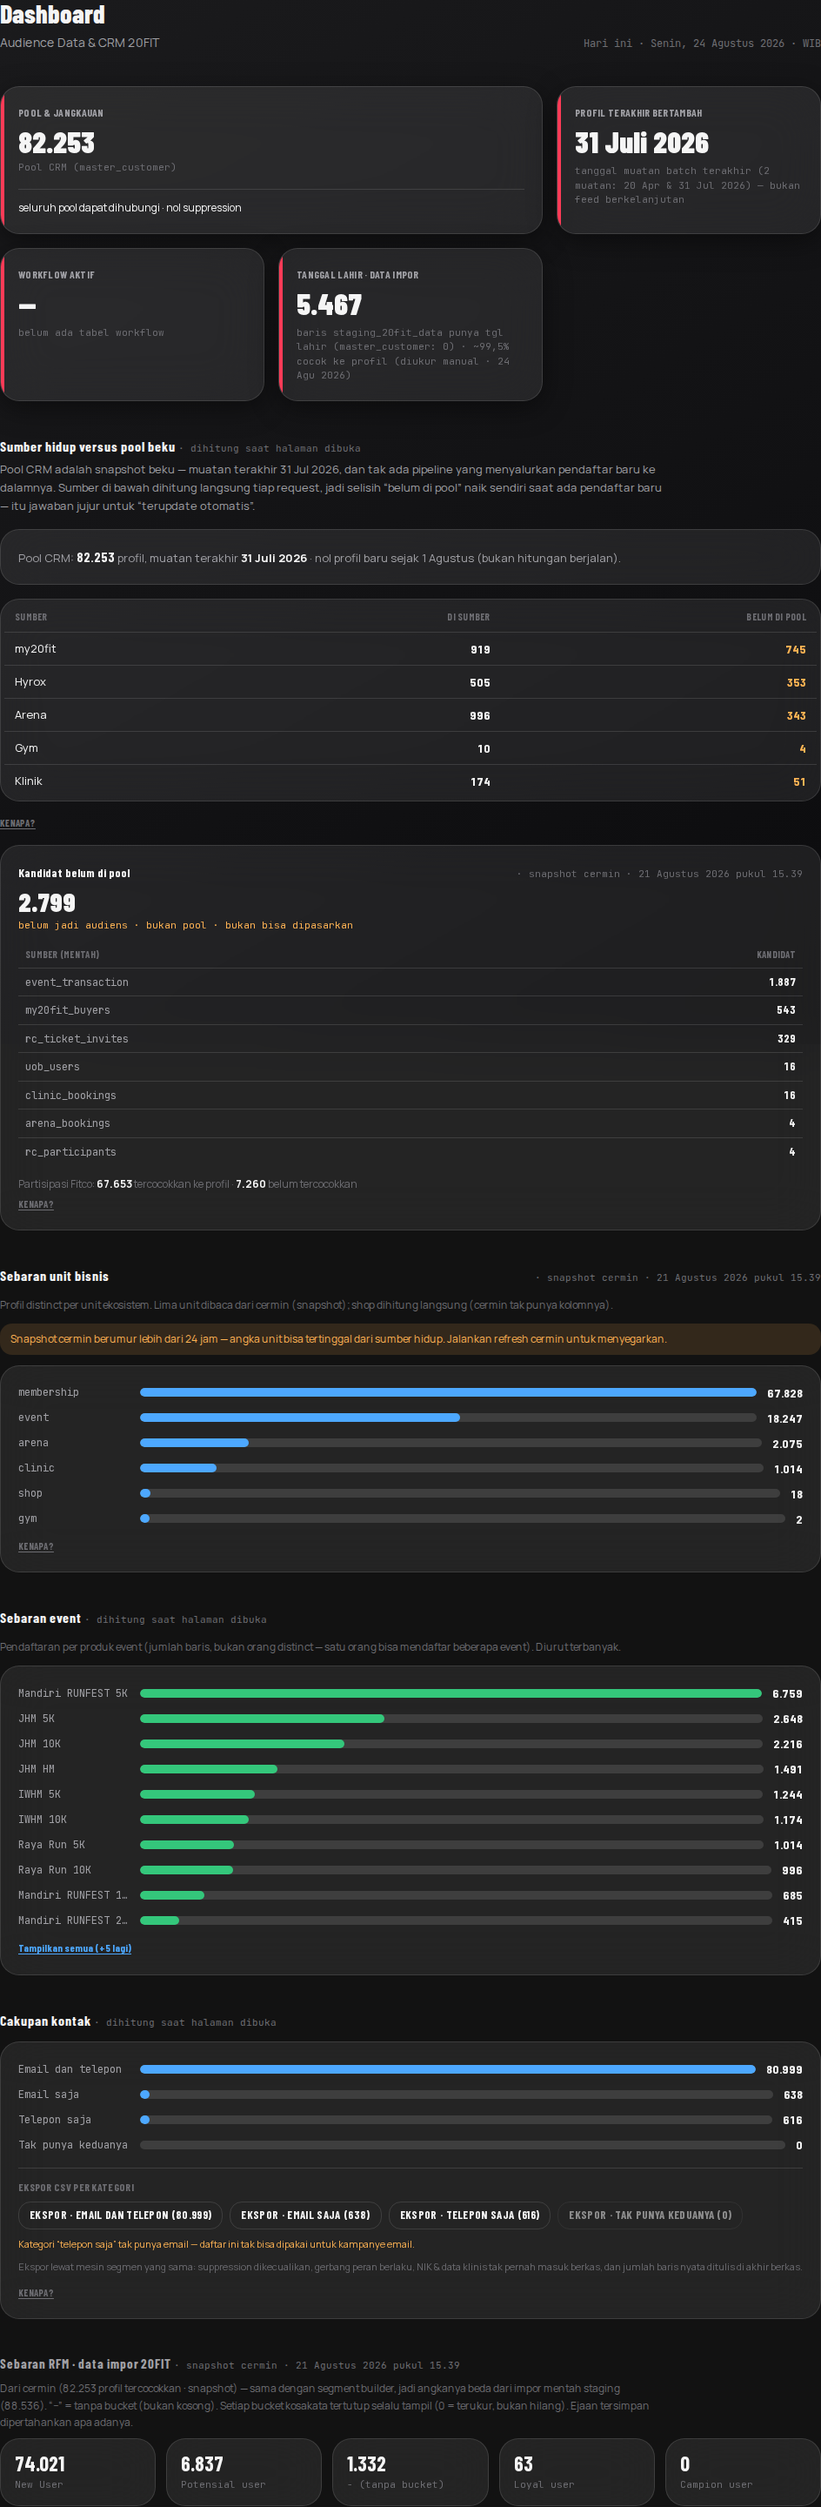
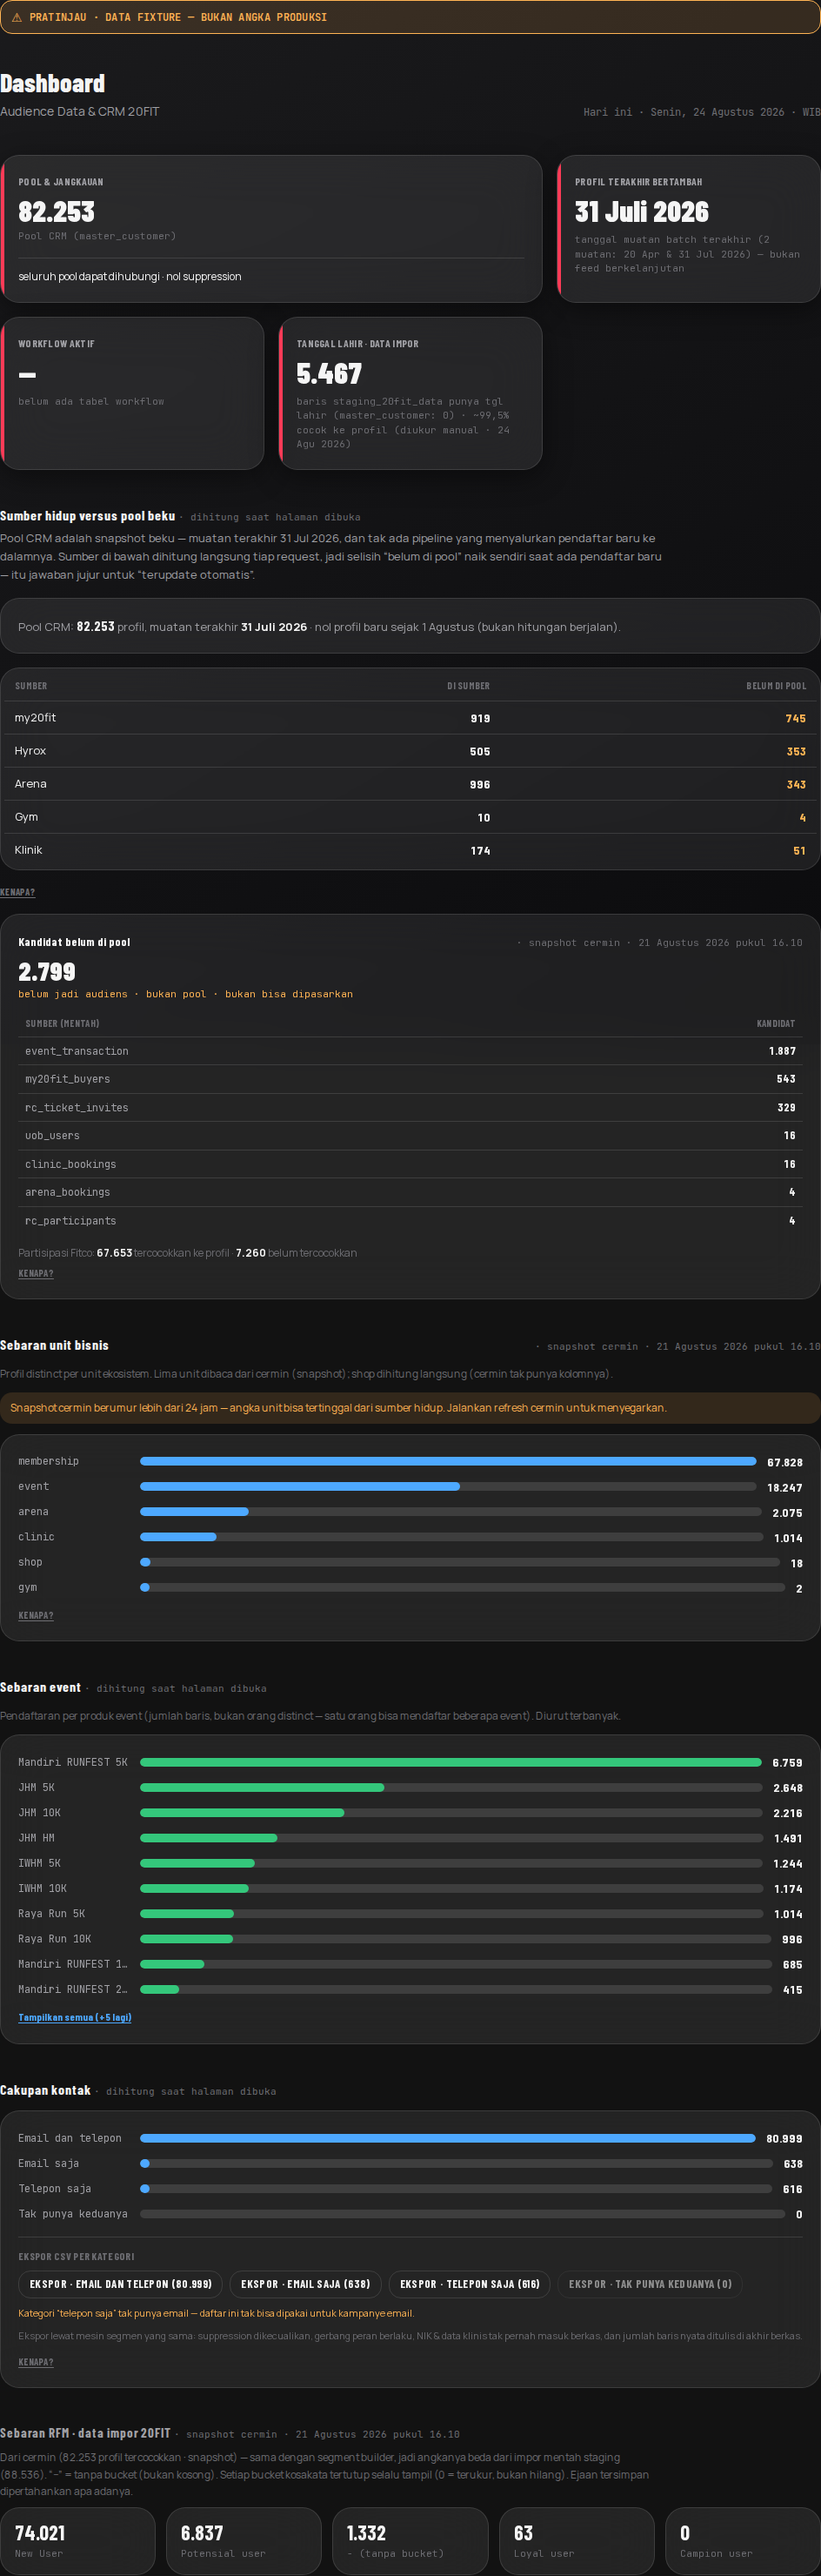
Dashboard: rendered fixture-preview marker + T-26 (screenshot misread as prod)
A /dev/preview screenshot was misread as production during the C+D review: the
fixture's stale contactable pair (82,089 / 81,760) looked like a live bug, but the
live path was always single-sourced from crm_contactable_counts (82,253). The root
cause was not the numbers — it was that fixture screenshots are indistinguishable
from production ones without checking the DB, and making the fixture MORE accurate
deepened the trap.

Closure: a preview marker that renders INSIDE DashboardContent (not just at the
/dev/preview URL) — an amber "⚠ PREVIEW · FIXTURE DATA — NOT PRODUCTION FIGURES"
band, shown only when isPreview (which is only ever true on /dev/preview, 404 in
prod). Because screenshots capture the DashboardContent element, the band rides in
every fixture image. Same pattern as CoverageNotice and the per-block freshness
markers: make the state visible on screen, don't rely on context outside the frame.

Recorded as T-26 in docs/riwayat/TEMUAN.md. Screenshots regenerated with the band.
tsc/lint/build clean, 737 tests.

Claude-Session: https://claude.ai/code/session_01HEuV61K4GfLR9WpHysmiKj

Changed region(s): [[0.0, 0.0, 1.0, 0.9997], [0.9216, 0.3749, 0.9831, 0.4686], [0.9523, 0.2499, 0.9831, 0.3124]]

diff --git a/components/dashboard/dashboard-content.tsx b/components/dashboard/dashboard-content.tsx
@@ -372,6 +372,17 @@ export function DashboardContent(
 
   return (
     <div className="space-y-10">
+      {/* FIXTURE PREVIEW MARKER — renders inside the dashboard itself (not just at the /dev/preview
+          URL) so ANY screenshot of fixture data is unmistakable without checking the database. It
+          only ever shows when isPreview is true, which is only ever true on /dev/preview (404 in
+          prod). This closes the trap where the corrected-to-real fixture became indistinguishable
+          from production (see docs/riwayat/TEMUAN.md). */}
+      {isPreview && (
+        <div className="tint-amber flex items-center gap-2 rounded-sm border border-amber px-3 py-2" role="note">
+          <span aria-hidden className="font-display text-[14px] font-bold">⚠</span>
+          <span className="font-mono text-[12px] font-bold uppercase tracking-wide">{t.dashboard.previewBanner}</span>
+        </div>
+      )}
       <header className="flex flex-wrap items-end justify-between gap-4">
         <div>
           <h1 className="font-display text-[30px] font-extrabold leading-none text-ink">{t.dashboard.title}</h1>

diff --git a/lib/i18n/messages/id.ts b/lib/i18n/messages/id.ts
@@ -76,6 +76,9 @@ export const id = {
     freshManual: "diukur manual", // + tanggal pengukuran
     // Progressive-load: skeleton = sedang dihitung; state gagal per bagian; tombol coba lagi.
     computing: "Sedang menghitung…",
+    // Penanda pratinjau — IKUT ter-render (bukan hanya di URL /dev/preview), supaya screenshot
+    // fixture tak pernah lagi salah dibaca sebagai produksi. Hanya muncul saat isPreview.
+    previewBanner: "PRATINJAU · DATA FIXTURE — BUKAN ANGKA PRODUKSI",
     blockFailed: "Bagian ini gagal dimuat.",
     blockRetry: "Coba lagi",
     audienceSize: "Ukuran audiens",

diff --git a/lib/i18n/messages/en.ts b/lib/i18n/messages/en.ts
@@ -64,6 +64,7 @@ export const en: Messages = {
     freshSnapshot: "mirror snapshot", // + refresh date-time
     freshManual: "measured manually", // + measurement date
     computing: "Computing…",
+    previewBanner: "PREVIEW · FIXTURE DATA — NOT PRODUCTION FIGURES",
     blockFailed: "This section failed to load.",
     blockRetry: "Retry",
     audienceSize: "Audience size",

diff --git a/docs/riwayat/TEMUAN.md b/docs/riwayat/TEMUAN.md
@@ -495,3 +495,31 @@ ditetapkan: **nomor yang dirujuk dari komentar DB menang atas teks dokumen.**
   sudah pensiun ke **T-18**, jadi nomor T-25 bebas untuk insiden ini; tak ada tabrakan tersisa.
 
 **Tanpa catatan ini, orang yang membaca transkrip lama akan mengira ada temuan yang hilang.**
+
+---
+
+## T-26 · Screenshot fixture `/dev/preview` salah dibaca sebagai PRODUKSI — kemiripan terlalu sempurna (2026-08-24)
+
+**Apa yang terjadi.** Saat tinjauan dashboard C+D, screenshot pratinjau menampilkan "bisa
+dihubungi · marketing 82.089 / layanan 81.760". Peninjau mencocokkannya ke DB — `crm_contactable_counts()`
+mengembalikan **82.253/82.253**, suppression 0 — dan wajar menduga ada **bug produksi** atau jalur
+perhitungan kedua. Ditelusuri dari kode: jalur dashboard tunggal (`fetchContactableBlock` → RPC saja,
+diteruskan apa adanya; test mengunci ini). Angka 82.089/81.760 **tidak pernah dihasilkan kode apa pun**
+— itu **konstanta fixture** di `app/dev/preview/page.tsx`, usang. Produksi selalu benar.
+
+**Sebab sesungguhnya — bukan angkanya, tapi ketaktampakannya.** Fixture `/dev/preview` memakai angka
+nyata untuk hampir semua blok (my20fit 919, kandidat 2.799, RFM cermin) supaya render realistis. Itu
+membuat screenshot fixture **tak bisa dibedakan** dari screenshot produksi tanpa memeriksa DB. Ketika
+nilai contactable yang usang "diperbaiki" jadi 82.253 agar cocok produksi, kemiripan malah **makin
+sempurna** — jebakan yang sama akan terulang pada peninjau berikutnya.
+
+**Penutupan.** Penanda pratinjau yang **ikut ter-render** di dalam `DashboardContent` sendiri (bukan
+hanya di URL `/dev/preview`): pita amber "⚠ PRATINJAU · DATA FIXTURE — BUKAN ANGKA PRODUKSI", tampil
+HANYA saat `isPreview` (yang hanya pernah true di `/dev/preview`, 404 di produksi). Karena screenshot
+memotret elemen `DashboardContent`, pitanya ikut di setiap gambar fixture. Pola sama dengan
+`CoverageNotice` ("belum tersedia dalam Inggris") dan penanda kesegaran per blok: **buat keadaan
+kelihatan di layar, jangan andalkan konteks di luar gambar.**
+
+**Pelajaran.** Data pratinjau yang makin akurat makin berbahaya kalau tak ditandai — sebab ia makin
+meyakinkan sebagai produksi. Fixture apa pun yang bisa masuk screenshot keputusan HARUS membawa
+penanda yang ikut ter-render.
